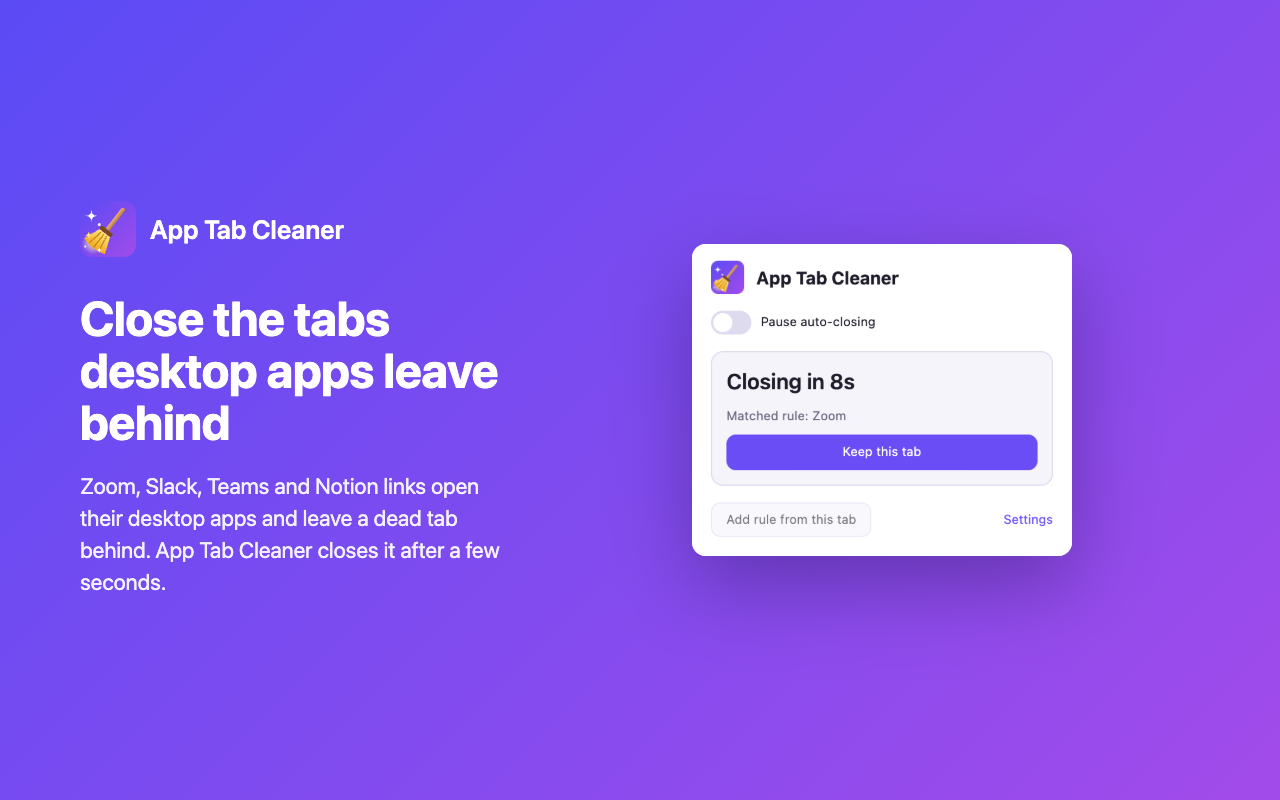
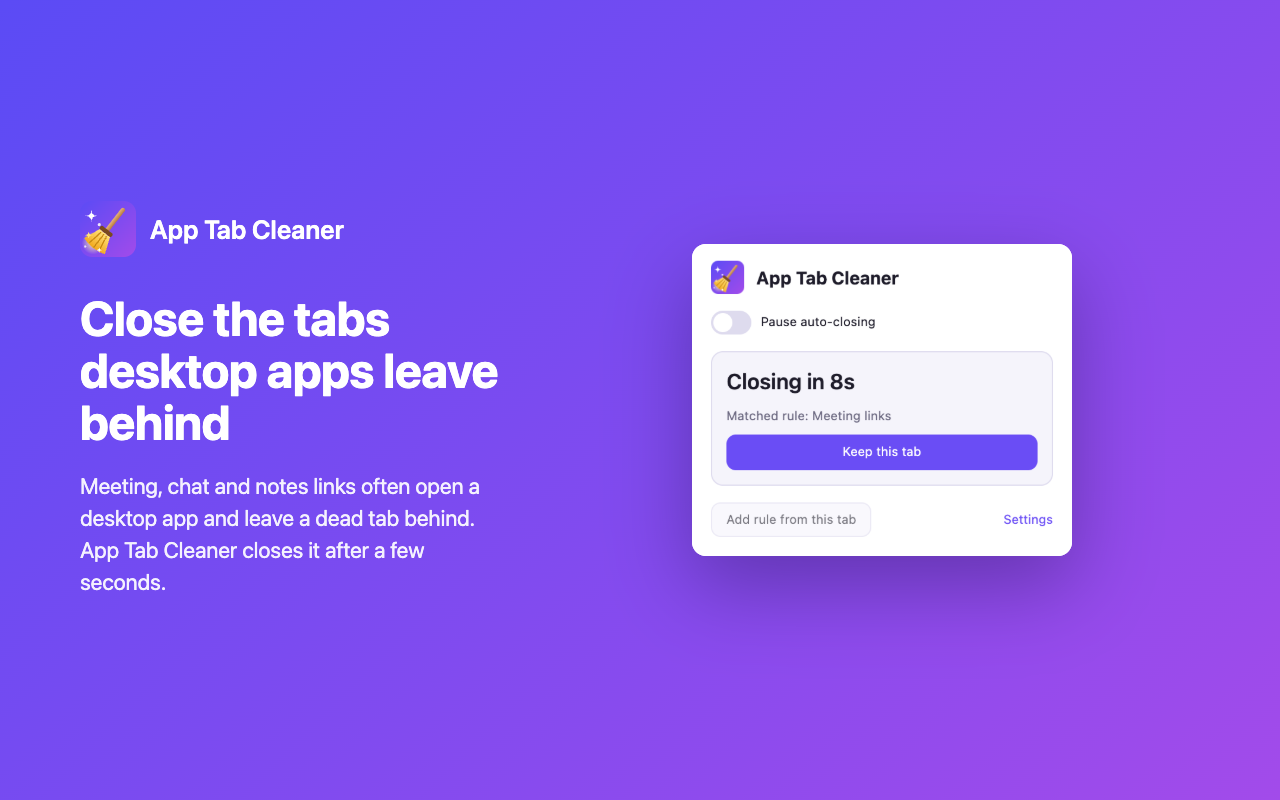
Remove third-party app names from store descriptions and images

Changed region(s): [[0.0625, 0.5938, 0.375, 0.7188], [0.625, 0.5, 0.6875, 0.5312]]

diff --git a/store/firefox/listing.md b/store/firefox/listing.md
@@ -16,13 +16,13 @@ For the first submission at [addons.mozilla.org/developers/addon/submit](https:/
 - **Summary (≤250 chars):**
 
   ```
-  Automatically closes the tabs left behind when links open desktop apps like Zoom, Slack, Microsoft Teams and Notion. Regex rules, per-rule timeouts, a countdown on the toolbar icon, and no data collection.
+  Automatically closes the browser tabs left behind when a link opens a desktop app, like a meeting or chat client. Regex rules, per-rule timeouts, a countdown on the toolbar icon, and no data collection.
   ```
 
 - **Description** (plain text; AMO keeps line breaks):
 
   ```
-  Clicking a Zoom, Slack, Teams or Notion link opens the desktop app, and leaves a useless browser tab behind. App Tab Cleaner closes those tabs for you a few seconds after the app takes over.
+  Clicking a meeting, chat or notes link often opens the desktop app, and leaves a useless browser tab behind. App Tab Cleaner closes those tabs for you a few seconds after the app takes over.
 
   HOW IT WORKS
   • When a tab opens, navigates to or reloads a URL matching one of your rules, a countdown starts on the toolbar button (10 seconds by default).
@@ -31,14 +31,8 @@ For the first submission at [addons.mozilla.org/developers/addon/submit](https:/
   • Tip: pin the button to your toolbar from the extensions menu to see the countdown, or turn on "Notify before closing" in the settings.
 
   WORKS OUT OF THE BOX
-  Built-in rules that recognise the "handoff" pages these apps leave behind, not their normal web versions:
-  • Zoom: meeting links, once Zoom reports the desktop client launched
-  • Slack: message and channel links that open in the app
-  • Microsoft Teams: the "Open in Teams" launcher page
-  • Notion: "open in desktop app" redirects
-  • Discord: server invites
-  • Linear: issue links handed off to the desktop app
-  Figma and Spotify rules are included but off by default, since their handoff pages look identical to normal use.
+  Built-in rules recognise the "handoff" pages that popular video-meeting, chat, notes, community and project-management apps leave behind, not their normal web versions. You can edit, reorder or turn off any of them.
+  Rules for apps whose handoff pages look identical to normal use are included but off by default.
 
   YOUR OWN RULES
   • Match any URL with regular expressions, with optional exceptions
@@ -80,7 +74,7 @@ For the first submission at [addons.mozilla.org/developers/addon/submit](https:/
 
   The linter's innerHTML warning comes from the Preact library (support for dangerouslySetInnerHTML); the extension's own code never uses it.
 
-  To test: the Zoom preset closes https://zoom.us/j/1#success after 10 seconds. You can also add a rule matching ^https://example\.com/ in Settings, then open https://example.com/.
+  To test: in Settings, add a rule matching ^https://example\.com/, then open https://example.com/ in a new tab. It closes after 10 seconds.
   ```
 
 ## Media step
@@ -90,7 +84,7 @@ AMO accepts the same images as the Chrome listing. Upload them from `store/chrom
 | File | Caption |
 |---|---|
 | `screenshot-1.png` | The popup counts down before closing a leftover tab |
-| `screenshot-2.png` | Built-in rules for Zoom, Slack, Teams, Notion, Discord and Linear |
+| `screenshot-2.png` | Built-in rules for popular desktop apps |
 | `screenshot-3.png` | Write your own regex rules and test them live |
 | `screenshot-4.png` | Minimal permissions and optional notifications |
 

diff --git a/store/chrome/listing.md b/store/chrome/listing.md
@@ -6,7 +6,7 @@ Copy these into the [developer dashboard](https://chrome.google.com/webstore/dev
 
 **Name and summary** come from the manifest (`_locales/en/messages.json`):
 - **Name:** App Tab Cleaner
-- **Summary (≤132 chars):** Automatically closes tabs left behind after links open in desktop apps like Zoom, Slack, Teams and Notion.
+- **Summary (≤132 chars):** Automatically closes the browser tabs left behind after a link opens a desktop app, like a meeting or chat client.
 
 **Category:** Productivity → Workflow & Planning
 
@@ -15,7 +15,7 @@ Copy these into the [developer dashboard](https://chrome.google.com/webstore/dev
 **Description** (plain text; the store doesn't render Markdown):
 
 ```
-Clicking a Zoom, Slack, Teams or Notion link opens the desktop app, and leaves a useless browser tab behind. App Tab Cleaner closes those tabs for you a few seconds after the app takes over.
+Clicking a meeting, chat or notes link often opens the desktop app, and leaves a useless browser tab behind. App Tab Cleaner closes those tabs for you a few seconds after the app takes over.
 
 HOW IT WORKS
 • When a tab opens, navigates to or reloads a URL matching one of your rules, a countdown starts on the toolbar icon (10 seconds by default).
@@ -23,14 +23,8 @@ HOW IT WORKS
 • Changed your mind? Click "Keep this tab" in the popup, or navigate the tab somewhere else, and it stays open.
 
 WORKS OUT OF THE BOX
-Built-in rules that recognise the "handoff" pages these apps leave behind, not their normal web versions:
-• Zoom: meeting links, once Zoom reports the desktop client launched
-• Slack: message and channel links that open in the app
-• Microsoft Teams: the "Open in Teams" launcher page
-• Notion: "open in desktop app" redirects
-• Discord: server invites
-• Linear: issue links handed off to the desktop app
-Figma and Spotify rules are included but off by default, since their handoff pages look identical to normal use.
+Built-in rules recognise the "handoff" pages that popular video-meeting, chat, notes, community and project-management apps leave behind, not their normal web versions. You can edit, reorder or turn off any of them.
+Rules for apps whose handoff pages look identical to normal use are included but off by default.
 
 YOUR OWN RULES
 • Match any URL with regular expressions, with optional exceptions
@@ -71,7 +65,7 @@ Free and open source (MIT): https://github.com/babraham123/app-tab-cleaner
 **Single purpose:**
 
 ```
-Automatically closes browser tabs whose URL matches user-defined patterns after a timeout: typically the leftover pages from links that open desktop apps such as Zoom, Slack, Microsoft Teams and Notion.
+Automatically closes browser tabs whose URL matches user-defined patterns after a timeout: typically the leftover pages from links that open desktop apps, such as video-meeting and chat clients.
 ```
 
 **Permission justifications:**
